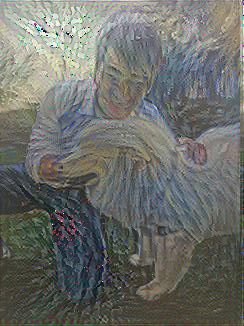
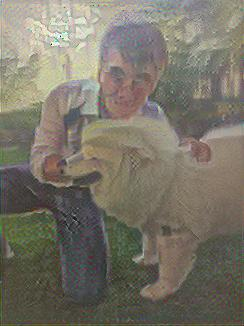
add neural artistic example

diff --git a/dev_art.py b/dev_art.py
@@ -6,7 +6,7 @@ import vgg
 from matplotlib import pyplot as plt
 
 # load images and convert to vgg19 style
-def load_sty_imgs(imgs=['./data/img/art1.jpg']):
+def load_sty_imgs(imgs=['./data/img/art2.jpg']):
 	sty_imgs = []
 	for image in imgs:
 		sty_imgs.append(np.array([
@@ -115,4 +115,4 @@ with tf.Session() as sess:
 			output = cont_remix.eval()[0,:,:,:]
 
 import scipy.misc
-scipy.misc.imsave('./data/img/output.jpg', img.revert_img(output).astype(np.uint8))
+scipy.misc.imsave('./data/img/output2.jpg', img.revert_img(output).astype(np.uint8))

diff --git a/basic_vgg19.py b/basic_vgg19.py
@@ -27,11 +27,6 @@ bgr = np.array( [
 			img.load_img('./data/img/file.jpg')
 		)
 	),
-	img.convert_img(
-		img.resize_img(
-			img.load_img('./data/img/art.jpg')
-		)
-	),
 ] )
 vgg19 = vgg.VGG19('./data/vgg19.npy')
 
